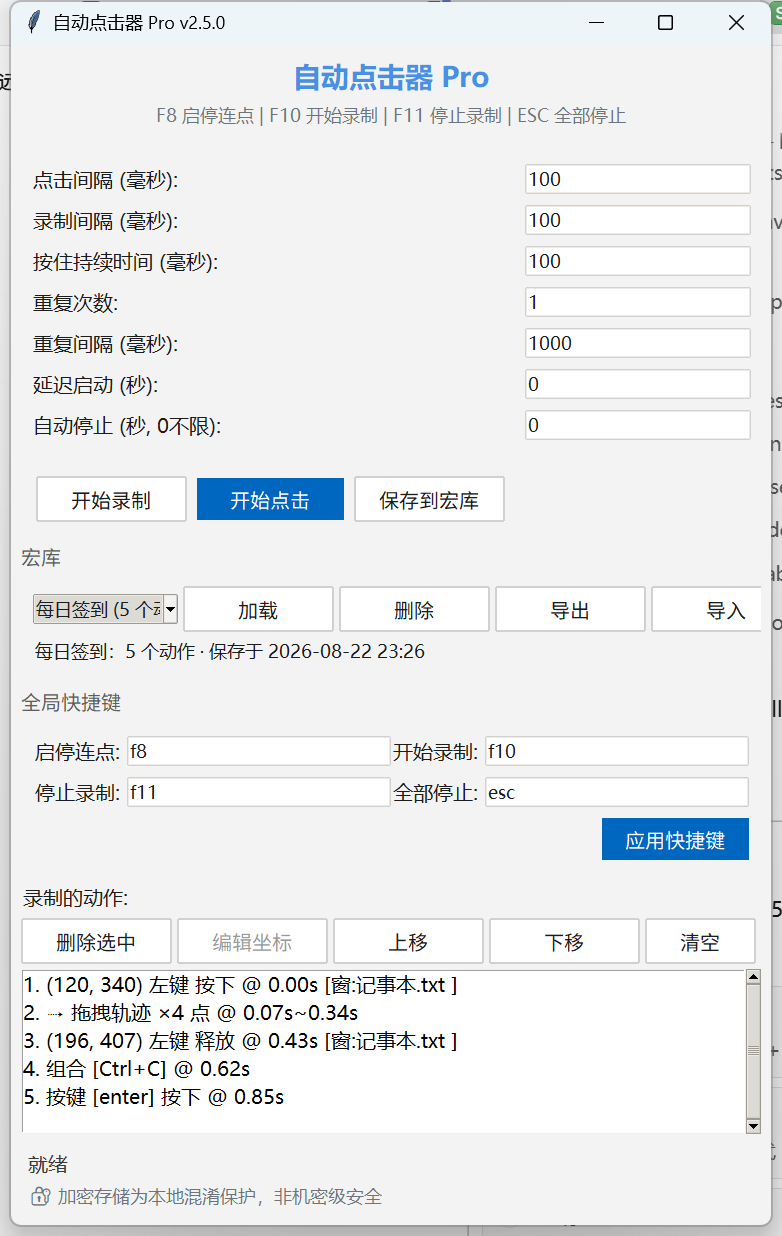
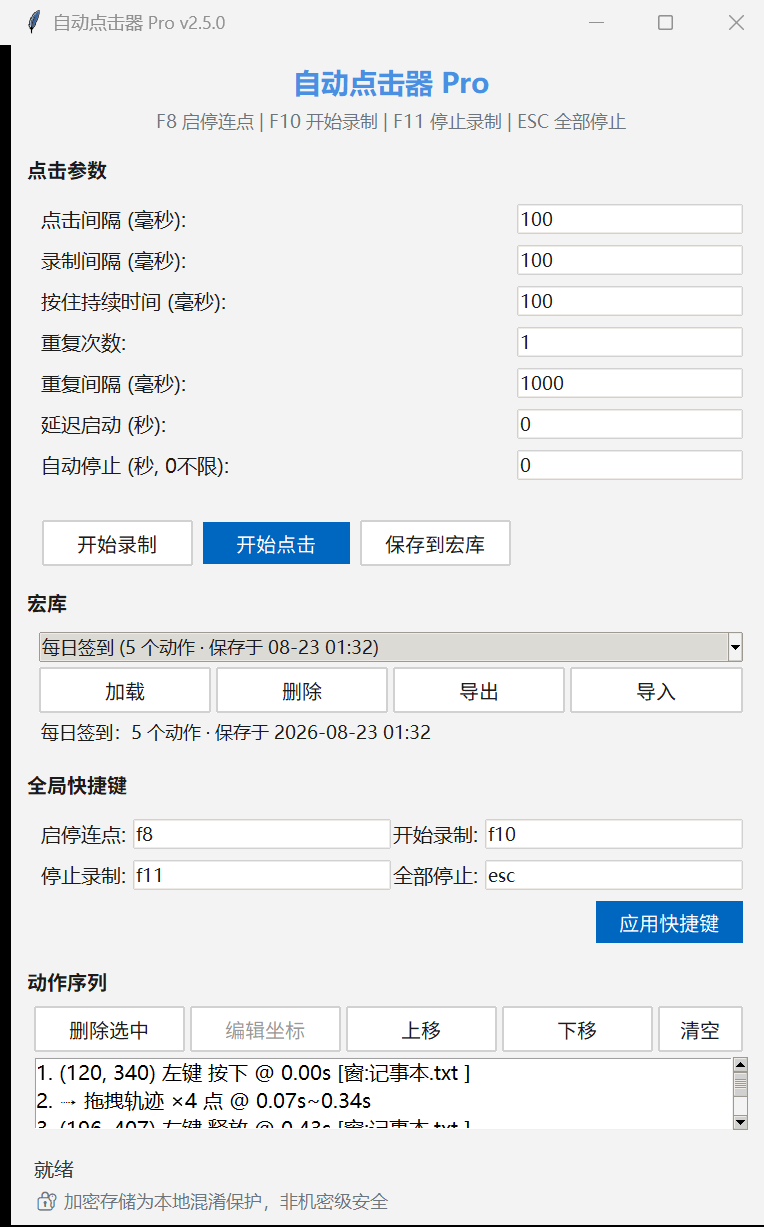
ui: 呼吸边距与统一标题框布局 (v2.5.1)
用户反馈界面过于贴边、缺乏层次，本轮打磨：

- 窗口四周留白 10px -> 16px（新增 PADDING_WINDOW），
  区块间距 10px -> 12px（新增 PADDING_SECTION）
- 设置面板改为标题框「点击参数」，动作列表改为「动作序列」，
  与「宏库」「全局快捷键」形成统一的四区块结构
- 宏库面板改两行布局：下拉框独占整行完整展示
  "名称 (N 个动作 · 保存于 时间)"，按钮等宽第二行，
  消除默认宽度下的横向溢出
- 区块标题加粗深色，层次更清晰
- 截图工具改用 DWM 扩展边界裁剪，剔除隐形缩放边框的桌面透底；
  息屏/锁屏时自动回退 PrintWindow 并重新生成两张截图

测试 147 项全部通过。

diff --git a/ui/app.py b/ui/app.py
@@ -15,6 +15,7 @@ from config.constants import (
     FONT_FAMILY, FONT_SIZE_TITLE, FONT_SIZE_SMALL,
     COLOR_PRIMARY, COLOR_DANGER, COLOR_SUCCESS, COLOR_DISABLED,
     PADDING_STANDARD, PADDING_LARGE, PADDING_SMALL,
+    PADDING_WINDOW, PADDING_SECTION,
     STATUS_READY,
     HOTKEY_START_STOP, HOTKEY_START_RECORDING,
     HOTKEY_STOP_RECORDING, HOTKEY_CANCEL,
@@ -130,8 +131,9 @@ class AutoClickerApp:
     
     def _create_ui(self):
         """创建用户界面"""
-        # 主框架
-        main_frame = ttk.Frame(self.root, padding=PADDING_STANDARD)
+        # 主框架（窗口四周留出呼吸边距）
+        main_frame = ttk.Frame(self.root, padding=(PADDING_WINDOW, PADDING_WINDOW,
+                                                   PADDING_WINDOW, PADDING_SMALL))
         main_frame.grid(row=0, column=0, sticky="nsew")
 
         # 配置网格权重（动作列表所在行才是可伸缩的主体区域）
@@ -145,11 +147,13 @@ class AutoClickerApp:
 
         # 设置面板
         self.settings_panel = SettingsPanel(main_frame)
-        self.settings_panel.grid(row=2, column=0, sticky="ew", pady=(0, PADDING_STANDARD))
+        self.settings_panel.grid(row=2, column=0, sticky="ew",
+                                 pady=(0, PADDING_SECTION))
 
         # 控制按钮
         self.control_buttons = ControlButtons(main_frame)
-        self.control_buttons.grid(row=3, column=0, sticky="ew", pady=(0, PADDING_STANDARD))
+        self.control_buttons.grid(row=3, column=0, sticky="ew",
+                                  pady=(0, PADDING_SECTION))
 
         # 设置按钮回调
         self.control_buttons.set_record_callback(self._on_record_click)
@@ -165,7 +169,7 @@ class AutoClickerApp:
             on_import=self._on_import_click,
         )
         self.library_panel.grid(row=4, column=0, sticky="ew",
-                                pady=(0, PADDING_STANDARD))
+                                pady=(0, PADDING_SECTION))
         self.library_panel.combo.bind(
             '<<ComboboxSelected>>', self._on_library_selection_changed)
         self._refresh_macro_library()
@@ -175,11 +179,12 @@ class AutoClickerApp:
                                               on_apply=self._apply_hotkeys)
         self.hotkey_settings.set_values(self.hotkeys)
         self.hotkey_settings.grid(row=5, column=0, sticky="ew",
-                                  pady=(0, PADDING_STANDARD))
+                                  pady=(0, PADDING_SECTION))
 
         # 动作列表（占据剩余空间）
         self.action_list = ActionList(main_frame)
-        self.action_list.grid(row=6, column=0, sticky="nsew", pady=(0, PADDING_STANDARD))
+        self.action_list.grid(row=6, column=0, sticky="nsew",
+                              pady=(0, PADDING_SECTION))
         self.action_list.set_edit_callbacks(
             on_delete=self._on_delete_action,
             on_move_up=lambda: self._on_move_action(-1),

diff --git a/ui/components/macro_library_panel.py b/ui/components/macro_library_panel.py
@@ -31,32 +31,38 @@ class MacroLibraryPanel(ttk.LabelFrame):
         self._name_to_display = {}
         self._display_to_name = {}
 
-        # 宏名下拉框（width 提供最小请求宽度；minsize 保证窄窗口下也不被压没）
+        # 宏名下拉框（独占整行，宽下拉能完整展示"名称+元数据"）
         self.combo = ttk.Combobox(self, state="readonly", width=16)
-        self.combo.grid(row=0, column=0, sticky="ew", padx=(0, PADDING_SMALL))
-        self.columnconfigure(0, weight=1, minsize=150)
+        self.combo.grid(row=0, column=0, columnspan=4, sticky="ew")
+        self.columnconfigure(0, weight=1, uniform="libbtn")
 
         self.load_button = ttk.Button(
             self, text="加载", command=self._load_selected,
             state=tk.DISABLED)
-        self.load_button.grid(row=0, column=1, padx=(0, PADDING_SMALL))
+        self.load_button.grid(row=1, column=0, sticky="ew",
+                              padx=(0, PADDING_SMALL), pady=(PADDING_SMALL, 0))
 
         self.delete_button = ttk.Button(
             self, text="删除", command=self._delete_selected,
             state=tk.DISABLED)
-        self.delete_button.grid(row=0, column=2, padx=(0, PADDING_SMALL))
+        self.delete_button.grid(row=1, column=1, sticky="ew",
+                                padx=(0, PADDING_SMALL), pady=(PADDING_SMALL, 0))
 
         export_button = ttk.Button(
             self, text="导出", command=lambda: self._on_export_cb())
-        export_button.grid(row=0, column=3, padx=(0, PADDING_SMALL))
+        export_button.grid(row=1, column=2, sticky="ew",
+                           padx=(0, PADDING_SMALL), pady=(PADDING_SMALL, 0))
 
         import_button = ttk.Button(
             self, text="导入", command=lambda: self._on_import_cb())
-        import_button.grid(row=0, column=4)
+        import_button.grid(row=1, column=3, sticky="ew",
+                           pady=(PADDING_SMALL, 0))
+        for col in range(4):
+            self.columnconfigure(col, weight=1)
 
         # 选中宏的元数据详情行
         self.detail_label = ttk.Label(self, text="", font=(FONT_FAMILY, FONT_SIZE_SMALL))
-        self.detail_label.grid(row=1, column=0, columnspan=5,
+        self.detail_label.grid(row=2, column=0, columnspan=4,
                                sticky=tk.W, pady=(PADDING_SMALL, 0))
 
     def set_detail(self, text: str):

diff --git a/tools/capture_docs_screens.py b/tools/capture_docs_screens.py
@@ -73,13 +73,29 @@ def _is_uniform(mem_dc, w: int, h: int) -> bool:
     return all(g32.GetPixel(mem_dc, x, y) == first for x, y in pts[1:])
 
 
-def _capture_window(hwnd: int):
-    """抓取窗口内容，返回 (png_bytes, (w, h))"""
+def _visible_bounds(hwnd: int):
+    """DWM 扩展边界（真实可见区域），剔除隐形缩放边框的桌面透底"""
     from ctypes import wintypes
 
-    rect = wintypes.RECT()
-    u32.GetWindowRect(hwnd, ctypes.byref(rect))
-    w, h = rect.right - rect.left, rect.bottom - rect.top
+    class RECT_(ctypes.Structure):
+        _fields_ = [("left", ctypes.c_long), ("top", ctypes.c_long),
+                    ("right", ctypes.c_long), ("bottom", ctypes.c_long)]
+
+    bounds = RECT_()
+    DWMWA_EXTENDED_FRAME_BOUNDS = 9
+    ctypes.windll.dwmapi.DwmGetWindowAttribute(
+        hwnd, DWMWA_EXTENDED_FRAME_BOUNDS, ctypes.byref(bounds),
+        ctypes.sizeof(bounds))
+    return bounds
+
+
+def _capture_window(hwnd: int):
+    """按 DWM 可见边界从屏幕 DC 抓取窗口，返回 (png_bytes, (w, h))"""
+    from ctypes import wintypes
+
+    rect = _visible_bounds(hwnd)
+    w = rect.right - rect.left
+    h = rect.bottom - rect.top
 
     hwnd_dc = u32.GetWindowDC(hwnd)
     mem_dc = g32.CreateCompatibleDC(hwnd_dc)

diff --git a/ui/components/action_list.py b/ui/components/action_list.py
@@ -14,11 +14,11 @@ from config.constants import (
 )
 
 
-class ActionList(ttk.Frame):
-    """动作列表组件，显示录制的宏动作序列，支持删除/移动/清空编辑"""
+class ActionList(ttk.LabelFrame):
+    """动作列表组件（标题框"动作序列"），显示宏动作并支持编辑"""
 
     def __init__(self, parent):
-        super().__init__(parent)
+        super().__init__(parent, text="动作序列", padding=PADDING_SMALL)
 
         # 回调函数
         self.on_selection_change: Optional[Callable[[int], None]] = None
@@ -51,10 +51,6 @@ class ActionList(ttk.Frame):
 
     def _create_widgets(self):
         """创建列表框、滚动条与编辑工具条"""
-        # 标签
-        label = ttk.Label(self, text="录制的动作:", font=(FONT_FAMILY, FONT_SIZE_NORMAL))
-        label.pack(anchor=tk.W, pady=(0, PADDING_SMALL))
-
         # 编辑工具条
         toolbar = ttk.Frame(self)
         toolbar.pack(fill=tk.X, pady=(0, PADDING_SMALL))

diff --git a/ui/theme.py b/ui/theme.py
@@ -48,8 +48,10 @@ def apply_win11_theme(root: tk.Tk) -> None:
         style.configure('TLabel', background=WIN11_BG, foreground=WIN11_TEXT)
         style.configure('TLabelframe', background=WIN11_BG,
                         bordercolor=WIN11_BORDER, relief='flat')
+        # 区块标题：加粗深色，与正文形成层次
         style.configure('TLabelframe.Label',
-                        background=WIN11_BG, foreground=WIN11_MUTED)
+                        background=WIN11_BG, foreground=WIN11_TEXT,
+                        font=('Segoe UI', 10, 'bold'))
 
         # 输入框 / 列表：白底细边框
         style.configure('TEntry', fieldbackground=WIN11_SURFACE,

diff --git a/ui/components/settings_panel.py b/ui/components/settings_panel.py
@@ -17,11 +17,11 @@ from config.constants import (
 )
 
 
-class SettingsPanel(ttk.Frame):
-    """设置面板组件，包含所有配置输入框"""
-    
+class SettingsPanel(ttk.LabelFrame):
+    """设置面板组件，包含所有配置输入框（标题框样式，与宏库/快捷键区统一）"""
+
     def __init__(self, parent):
-        super().__init__(parent, padding=PADDING_STANDARD)
+        super().__init__(parent, text="点击参数", padding=PADDING_STANDARD)
         
         # 存储所有变量的字典
         self.variables: Dict[str, tk.StringVar] = {}

diff --git a/config/constants.py b/config/constants.py
@@ -5,7 +5,7 @@
 
 # ==================== 应用程序基础配置 ====================
 APP_NAME = "自动点击器 Pro"
-APP_VERSION = "2.5.0"
+APP_VERSION = "2.5.1"
 APP_WIDTH = 560
 APP_HEIGHT = 700
 APP_MIN_WIDTH = 500
@@ -87,6 +87,8 @@ VALIDATION_RULES = {
 PADDING_STANDARD = 10
 PADDING_LARGE = 20
 PADDING_SMALL = 5
+PADDING_WINDOW = 16     # 窗口四周呼吸边距
+PADDING_SECTION = 12    # 区块之间的垂直间距
 GRID_STICKY_ALL = "nsew"
 GRID_STICKY_W = "w"
 GRID_STICKY_E = "e"
